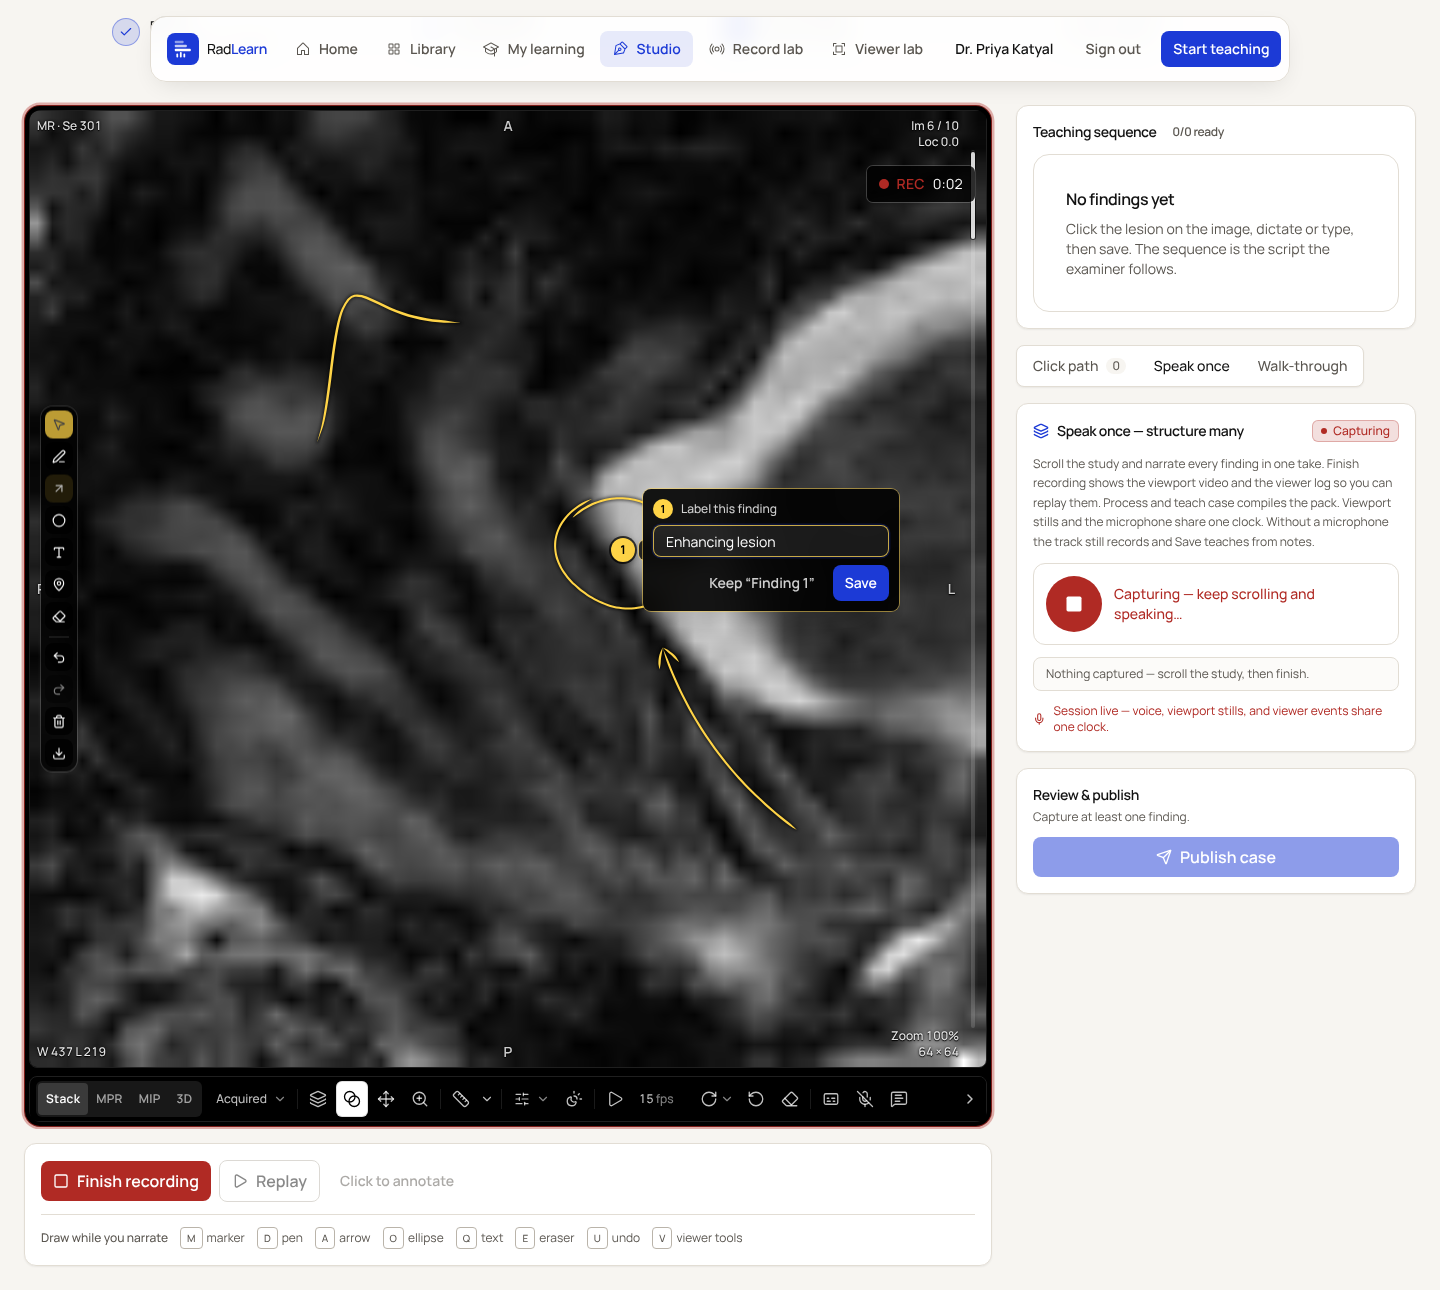
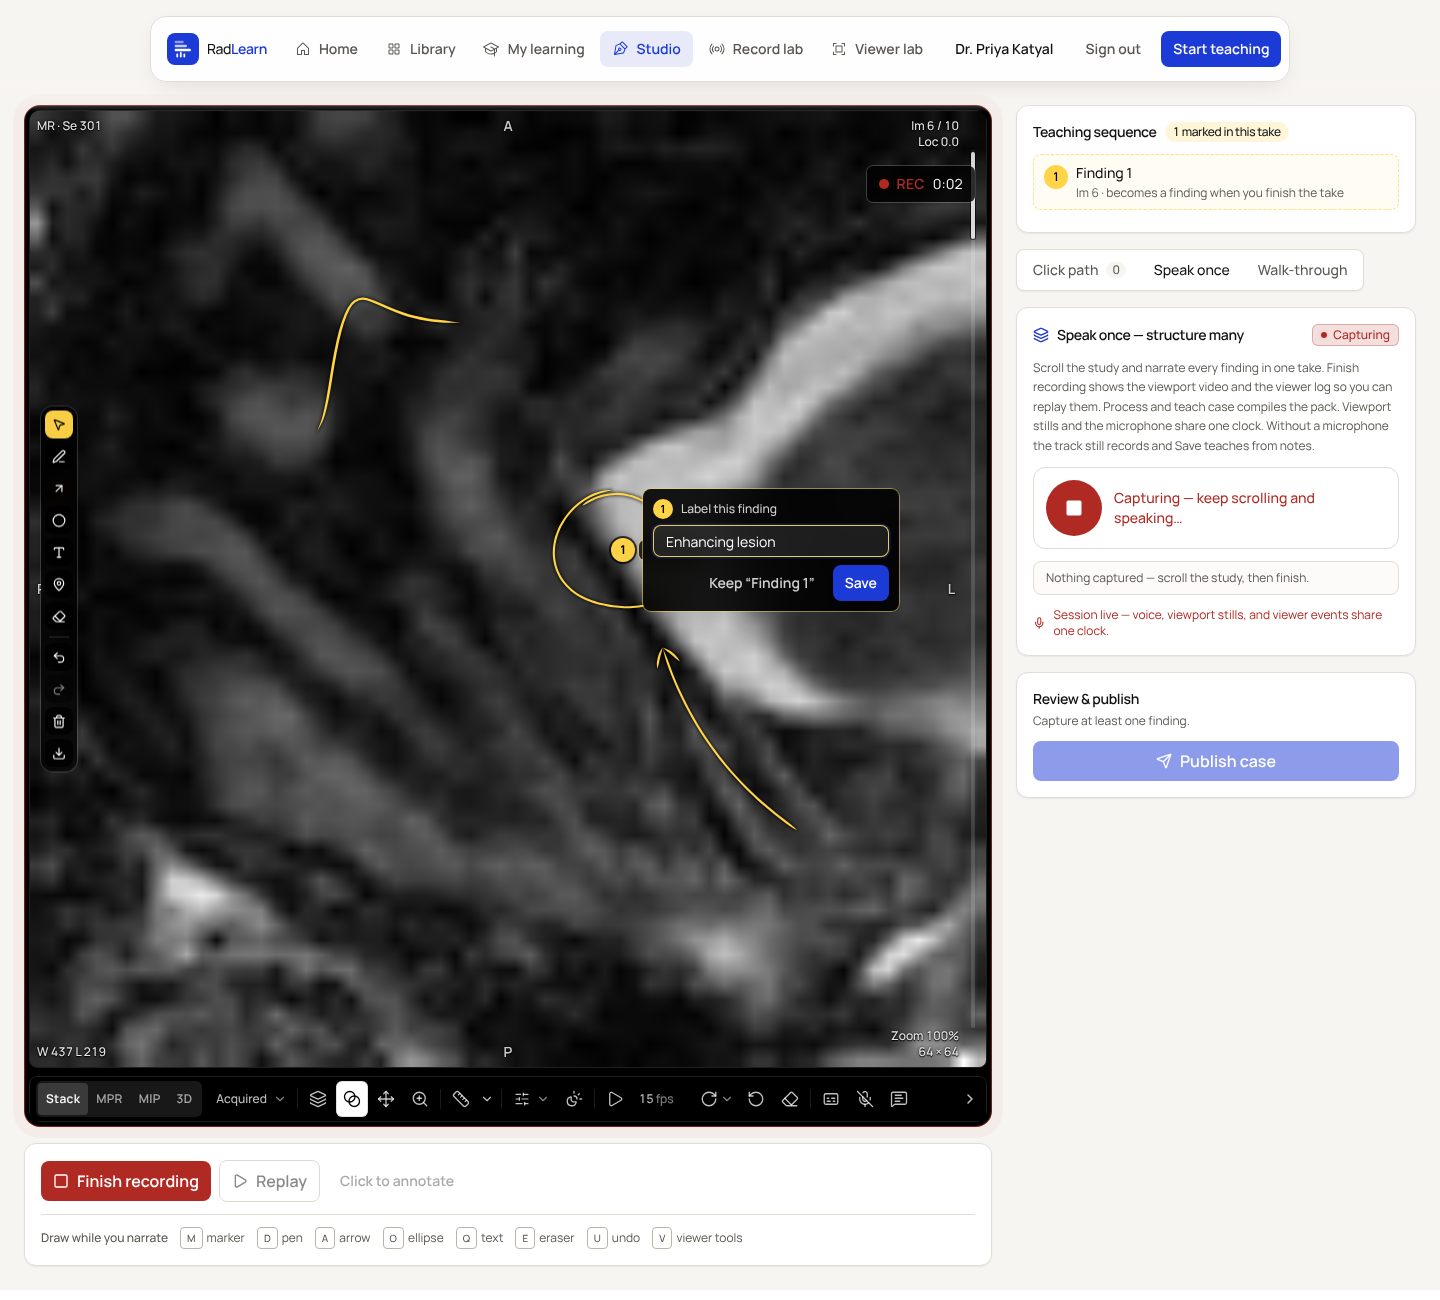
Studio review fixes: pending markers, nav scrim, CT screenshots. [skip ci]
- Teaching sequence lists numbered markers from the live take as pending
  ("1 · Left apical nodule · Im 7 · becomes a finding when you finish the
  take"), so it no longer reads "0/0 ready · No findings yet" under marker 1.
  A marker stops being pending once a saved finding sits on its slice and
  point (pendingSketchMarkers, unit-tested).
- The floating nav gets a page-coloured scrim, so scrolled content (the
  stepper's completed-step check) no longer peeks out above and left of it.
- New e2e on a real de-identified CT: LIDC-IDRI chest CT from the local
  archive, a fresh draft case, ellipse + arrow + marker on the readers'
  left apical nodule at Im 7 on lung windows. The take is not finished, so
  nothing is saved. Skipped when the archive is not running.
- Screenshots regenerated, including three from the CT.

Claude-Session: https://claude.ai/code/session_01RieAufcSAuUBWG5gk2qR6z

diff --git a/e2e/studio-sketch.spec.ts b/e2e/studio-sketch.spec.ts
@@ -111,6 +111,9 @@ test("teacher sketches while recording; ink stays on its pixels through zoom, sc
   await expect(marker).toHaveAttribute("data-number", "1");
   await expect(marker).toHaveAttribute("data-label", "Enhancing lesion");
   await expect(page.getByTestId("teacher-stroke")).toHaveCount(3);
+  // Review fix: the Teaching sequence lists the marker, not "No findings yet".
+  await expect(page.getByTestId("sequence-pending")).toContainText("Enhancing lesion");
+  await expect(page.getByText("No findings yet")).toHaveCount(0);
 
   // Q: a text note anchored on the image.
   await page.keyboard.press("q");
@@ -243,4 +246,134 @@ test("replay draws the teacher's ink back in time with the take", async ({ page 
   await shot(page, "studio-sketch-replay");
   await expect(page.getByTestId("teacher-marker")).toHaveCount(1, { timeout: 5000 });
   await expect(page.getByTestId("teacher-stroke").first()).toHaveAttribute("data-done", "true");
+});
+
+// ---------------------------------------------------------------------------
+// The same Studio on a real, de-identified CT: LIDC-IDRI chest CT (TCIA,
+// CC BY 3.0) served by scripts/serve_local_ct.py. The left apical nodule the
+// LIDC readers segmented is on stack index 6 at (0.680, 0.494). Skipped when
+// that archive is not running. A fresh draft case is created on the series so
+// the published demo case is never touched, and the take is not finished, so
+// nothing is saved.
+// ---------------------------------------------------------------------------
+
+const LIDC_STUDY = "1.3.6.1.4.1.14519.5.2.1.6279.6001.210460865401632134346677582159";
+const LIDC_SERIES = "1.3.6.1.4.1.14519.5.2.1.6279.6001.314917368146772872954571551463";
+const NODULE = { slice: 6, x: 0.68, y: 0.494 };
+
+/** Screen point for an image fraction on the fitted, square 512² CT. */
+async function imagePoint(page: Page, x: number, y: number) {
+  const box = await stageBox(page);
+  const side = Math.min(box.width, box.height);
+  const left = box.x + (box.width - side) / 2;
+  const top = box.y + (box.height - side) / 2;
+  return { x: left + side * x, y: top + side * y };
+}
+
+test("Studio on a de-identified CT: the marker is listed in the Teaching sequence and the nav has no stray badge", async ({ page }) => {
+  const archive = await page.request.get("http://127.0.0.1:8042/studies/study-lidc").catch(() => null);
+  test.skip(!archive?.ok(), "LIDC archive (scripts/serve_local_ct.py) is not running");
+
+  await page.setViewportSize({ width: 1440, height: 1300 });
+  await page.addInitScript(() => window.localStorage.setItem("radlearn-cookie-ack", "1"));
+  expect((await page.request.post("/api/auth/demo", { data: { role: "author" } })).ok()).toBeTruthy();
+  const made = await page.request.post("/api/admin/cases", {
+    data: {
+      title: "Studio CT e2e — LIDC chest CT",
+      modality: "CT",
+      patientId: "pat_lidc_nodule",
+      studies: [{ studyInstanceUID: LIDC_STUDY, modality: "CT", caseSeriesInstanceUIDs: [LIDC_SERIES], seriesInstanceUIDs: [LIDC_SERIES] }],
+    },
+  });
+  expect(made.ok()).toBeTruthy();
+  const caseId = ((await made.json()) as { case: { caseId: string } }).case.caseId;
+
+  await page.goto(`/studio/cases/${caseId}/record`);
+  await expect(page.getByTestId("sketch-palette")).toBeVisible({ timeout: 120_000 });
+  const startButton = page.getByRole("button", { name: "Start recording" }).first();
+  await expect(startButton).toBeEnabled({ timeout: 120_000 });
+  await expect(page.getByText("No findings yet")).toBeVisible();
+
+  // Seat the nodule slice from the stack scrollbar (Im 7 of 65), on lung windows.
+  await showStage(page);
+  const slider = page.getByRole("slider", { name: "Slice" });
+  await expect(slider).toHaveAttribute("aria-valuemax", "65", { timeout: 60_000 });
+  const track = (await slider.boundingBox())!;
+  await page.mouse.click(track.x + track.width / 2, track.y + track.height * ((NODULE.slice + 0.5) / 65));
+  // The thumb's grab height can land the click a slice off; step to it.
+  const want = NODULE.slice + 1;
+  const centre = await imagePoint(page, 0.5, 0.5);
+  for (let i = 0; i < 12; i++) {
+    const now = Number(await slider.getAttribute("aria-valuenow"));
+    if (now === want) break;
+    await page.mouse.move(centre.x, centre.y);
+    await page.mouse.wheel(0, now > want ? -100 : 100);
+    await page.waitForTimeout(250);
+  }
+  await expect(slider).toHaveAttribute("aria-valuenow", String(want));
+  // Lung window from the preset menu, by name (preset order varies by modality).
+  await page.getByRole("button", { name: /^Window presets/ }).click();
+  await page
+    .getByRole("menuitemradio", { name: /^Lung/ })
+    .or(page.getByRole("menuitem", { name: /^Lung/ }))
+    .first()
+    .click();
+  await expect(page.getByRole("button", { name: "Window presets, Lung" })).toBeVisible();
+
+  await startButton.click();
+  await expect(page.getByRole("button", { name: "Finish recording" })).toBeVisible();
+
+  // Ring the nodule, point at it, then M drops marker #1 on it.
+  await page.keyboard.press("o");
+  const a = await imagePoint(page, NODULE.x - 0.035, NODULE.y - 0.035);
+  const b = await imagePoint(page, NODULE.x + 0.035, NODULE.y + 0.035);
+  await page.mouse.move(a.x, a.y);
+  await page.mouse.down();
+  await page.mouse.move(b.x, b.y, { steps: 8 });
+  await page.mouse.up();
+  await page.keyboard.press("a");
+  const tail = await imagePoint(page, NODULE.x + 0.16, NODULE.y + 0.13);
+  const tip = await imagePoint(page, NODULE.x + 0.045, NODULE.y + 0.04);
+  await page.mouse.move(tail.x, tail.y);
+  await page.mouse.down();
+  await page.mouse.move(tip.x, tip.y, { steps: 6 });
+  await page.mouse.up();
+  await page.keyboard.press("v");
+  const at = await imagePoint(page, NODULE.x, NODULE.y);
+  await page.mouse.move(at.x, at.y);
+  await page.keyboard.press("m");
+  const popover = page.getByTestId("marker-label-popover");
+  await expect(popover).toBeVisible();
+  await popover.getByRole("textbox").fill("Left apical nodule");
+
+  // The Teaching sequence lists the marker as soon as it is dropped.
+  const pending = page.getByTestId("sequence-pending");
+  await expect(pending).toContainText("Finding 1");
+  await expect(page.getByText("No findings yet")).toHaveCount(0);
+  await shot(page, "studio-ct-marker-label");
+  await popover.getByRole("textbox").press("Enter");
+  await expect(page.getByTestId("teacher-marker")).toHaveAttribute("data-label", "Left apical nodule");
+  await expect(pending).toContainText("Left apical nodule");
+  await expect(pending).toContainText(`Im ${NODULE.slice + 1}`);
+  await expect(page.getByTestId("sequence-pending-count")).toHaveText("1 marked in this take");
+  await expect(page.getByText("0/0 ready")).toHaveCount(0);
+
+  // The marker is anchored on the nodule's slice and point.
+  const items = await page.evaluate((key) => JSON.parse(sessionStorage.getItem(key) ?? "[]"), `flowrad:studio-sketch:${caseId}`);
+  const mark = (items as Array<{ kind: string; image: { sliceIndex: number }; points: Array<{ x_pct: number; y_pct: number }> }>).find(
+    (item) => item.kind === "marker"
+  );
+  expect(mark?.image.sliceIndex).toBe(NODULE.slice);
+  expect(Math.abs((mark?.points[0]?.x_pct ?? 0) - NODULE.x)).toBeLessThan(0.02);
+  expect(Math.abs((mark?.points[0]?.y_pct ?? 0) - NODULE.y)).toBeLessThan(0.02);
+  await shot(page, "studio-ct-recording");
+
+  // Scrolled under the floating nav: the stepper must not peek out around it.
+  await expect(page.getByTestId("nav-scrim")).toBeAttached();
+  const scrim = await page.evaluate(() => {
+    const el = document.querySelector('[data-testid="nav-scrim"]') as HTMLElement | null;
+    return el ? getComputedStyle(el).backgroundImage : "";
+  });
+  expect(scrim).toContain("gradient");
+  if (shots) await page.screenshot({ path: `${shots}/studio-ct-nav.png`, clip: { x: 0, y: 0, width: 1440, height: 140 } });
 });

diff --git a/components/author/SequenceBoard.tsx b/components/author/SequenceBoard.tsx
@@ -22,6 +22,7 @@ import {
 } from "@/components/ui";
 import { cn } from "@/components/ui/cn";
 import { displaySliceNumber } from "@/lib/findingDisplayState";
+import type { PendingSketchMarker } from "@/lib/teacherSketch";
 import type { Finding } from "@/lib/types";
 import {
   casePublishReadiness,
@@ -44,8 +45,14 @@ export function SequenceBoard({
   onPinCompare,
   onClearCompare,
   pinningId,
+  pending = [],
 }: {
   findings: Finding[];
+  /**
+   * Numbered markers dropped in the live take that are not findings yet.
+   * Listed so the board never reads "No findings yet" under a marker.
+   */
+  pending?: readonly PendingSketchMarker[];
   activeId?: string | null;
   busy?: boolean;
   onSelect: (finding: Finding) => void;
@@ -65,18 +72,57 @@ export function SequenceBoard({
       <div className="mb-3 flex items-center justify-between gap-2">
         <h2 className="flex items-center gap-2 text-sm font-semibold text-primary">
           Teaching sequence
-          <span className="rounded-full bg-elevated px-2 py-0.5 text-xs tabular-nums text-muted">
-            {readiness.total} findings
-          </span>
+          {/* A "0 findings" chip beside a marker reads as nothing captured.
+              Show the count once a finding is saved. */}
+          {(readiness.total > 0 || pending.length === 0) && (
+            <span className="rounded-full bg-elevated px-2 py-0.5 text-xs tabular-nums text-muted">
+              {readiness.total} findings
+            </span>
+          )}
+          {pending.length > 0 && (
+            <span
+              className="rounded-full bg-ink/20 px-2 py-0.5 text-xs font-medium tabular-nums text-primary"
+              data-testid="sequence-pending-count"
+            >
+              {pending.length} marked in this take
+            </span>
+          )}
         </h2>
       </div>
 
-      {findings.length === 0 ? (
+      {pending.length > 0 && (
+        <ol className="mb-1.5 flex flex-col gap-1.5" aria-label="Markers in this take" data-testid="sequence-pending">
+          {pending.map((p) => (
+            <li
+              key={p.id}
+              className="flex items-start gap-2 rounded-lg border border-dashed border-ink/70 bg-ink/[0.06] px-2.5 py-2"
+            >
+              <span
+                className="mt-0.5 flex h-6 w-6 shrink-0 items-center justify-center rounded-full bg-ink text-xs font-semibold tabular-nums text-black"
+                aria-hidden="true"
+              >
+                {p.number}
+              </span>
+              <span className="min-w-0 flex-1">
+                <span className="block truncate text-sm font-medium text-primary">
+                  <span className="sr-only">Marker {p.number}: </span>
+                  {p.label}
+                </span>
+                <span className="mt-0.5 block text-xs text-muted">
+                  Im {displaySliceNumber(p.sliceIndex)} · becomes a finding when you finish the take
+                </span>
+              </span>
+            </li>
+          ))}
+        </ol>
+      )}
+
+      {findings.length === 0 && pending.length === 0 ? (
         <EmptyState
           title="No findings yet"
           description="Click the lesion on the image, dictate or type, then save. The sequence is the script the examiner follows."
         />
-      ) : (
+      ) : findings.length === 0 ? null : (
         <ol className="flex flex-col gap-1.5">
           {findings.map((f, i) => {
             const gaps = findingGaps(f);

diff --git a/lib/teacherSketch.ts b/lib/teacherSketch.ts
@@ -209,6 +209,51 @@ export function defaultMarkerLabel(number: number): string {
   return `Finding ${number}`;
 }
 
+/** A numbered marker in the live take that is not a saved finding yet. */
+export interface PendingSketchMarker {
+  id: string;
+  number: number;
+  label: string;
+  /** 0-based stack index the marker sits on. */
+  sliceIndex: number;
+}
+
+/**
+ * Markers the teacher dropped that no saved finding carries yet. A marker
+ * becomes a finding when the take is finished and processed (the compile
+ * lands the finding on the marker's slice and point), so a finding on the
+ * same slice within half a percent of the image is the same mark. The
+ * Teaching sequence lists the rest as pending so it never reads "No findings
+ * yet" while a numbered marker is on the image.
+ */
+export function pendingSketchMarkers(
+  items: readonly TeacherSketchItem[],
+  findings: readonly { sliceIndex?: number; marker?: { x_pct: number; y_pct: number } | null }[]
+): PendingSketchMarker[] {
+  const out: PendingSketchMarker[] = [];
+  for (const item of items) {
+    if (item.kind !== "marker") continue;
+    const at = item.points[0];
+    if (!at) continue;
+    const saved = findings.some(
+      (f) =>
+        f.marker &&
+        f.sliceIndex === item.image.sliceIndex &&
+        Math.abs(f.marker.x_pct - at.x_pct) <= 0.005 &&
+        Math.abs(f.marker.y_pct - at.y_pct) <= 0.005
+    );
+    if (saved) continue;
+    const number = item.number ?? out.length + 1;
+    out.push({
+      id: item.id,
+      number,
+      label: item.text?.trim() || defaultMarkerLabel(number),
+      sliceIndex: item.image.sliceIndex,
+    });
+  }
+  return out.sort((a, b) => a.number - b.number);
+}
+
 // ---------------------------------------------------------------------------
 // Timeline (progressive replay)
 // ---------------------------------------------------------------------------

diff --git a/lib/teacherSketch.test.ts b/lib/teacherSketch.test.ts
@@ -35,6 +35,7 @@ import {
   teacherMarkerInWindow,
   undoSketch,
   withSketchAnnotations,
+  pendingSketchMarkers,
 } from "./teacherSketch.ts";
 import { resolveStudioHotkey, STUDENT_SESSION_KEYS, STUDIO_MARKER_KEY, STUDIO_TOOL_KEYS } from "./studioHotkeys.ts";
 import { resolveViewerHotkey } from "./viewerHotkeys.ts";
@@ -420,4 +421,23 @@ test("Studio sketch keys never reuse a student-session key, and Alt+X stays with
   // preset menu's fourth entry), as on the desktop. Pan stays on the toolbar.
   assert.equal(resolveStudioHotkey({ key: "4" }), null);
   assert.deepEqual(resolveViewerHotkey({ key: "4" }), { type: "preset", ordinal: 4 });
+});
+
+test("a marker in the live take is listed as pending until a saved finding carries it", () => {
+  const items = [marker("m2", 2, 0.3, 0.4, 8), marker("m1", 1), { ...marker("m3", 3), kind: "pen" as const }];
+  items[1] = { ...items[1]!, text: "Enhancing lesion" };
+  // Nothing saved yet: both markers are pending, numbered in order, pens ignored.
+  const pending = pendingSketchMarkers(items, []);
+  assert.deepEqual(
+    pending.map((p) => [p.number, p.label, p.sliceIndex]),
+    [
+      [1, "Enhancing lesion", 6],
+      [2, "Finding 2", 8],
+    ]
+  );
+  // The compile lands finding 1 on marker 1's slice and point: no longer pending.
+  const landed = pendingSketchMarkers(items, [{ sliceIndex: 6, marker: { x_pct: 0.62, y_pct: 0.37 } }]);
+  assert.deepEqual(landed.map((p) => p.id), ["m2"]);
+  // Same point on another slice is a different mark.
+  assert.equal(pendingSketchMarkers(items, [{ sliceIndex: 5, marker: { x_pct: 0.62, y_pct: 0.37 } }]).length, 2);
 });

diff --git a/components/AppShell.tsx b/components/AppShell.tsx
@@ -283,7 +283,20 @@ export function AppShell({
       <div className={cn("flex min-h-dvh flex-col bg-canvas", (readingRoom || freeViewer) && "bg-imaging")}>
         {!hideChrome && (
           <header className="pointer-events-none fixed inset-x-0 top-4 z-40 px-4">
-            <div className="pointer-events-auto mx-auto flex w-fit max-w-full items-center gap-2 rounded-2xl border border-subtle bg-surface/90 p-2 shadow-md backdrop-blur-md">
+            {/* Scrolled content fades out before it reaches the floating nav,
+                so nothing (a stepper check, a heading's first letter) peeks
+                out in the gap around the pill. Pointer-transparent. */}
+            <div
+              aria-hidden="true"
+              data-testid="nav-scrim"
+              className={cn(
+                "absolute inset-x-0 -top-4 h-28 bg-gradient-to-b via-70%",
+                readingRoom || freeViewer
+                  ? "from-imaging via-imaging to-transparent"
+                  : "from-canvas via-canvas to-transparent"
+              )}
+            />
+            <div className="pointer-events-auto relative mx-auto flex w-fit max-w-full items-center gap-2 rounded-2xl border border-subtle bg-surface/90 p-2 shadow-md backdrop-blur-md">
               <Link
                 href="/"
                 className="group flex items-center gap-2 rounded-lg px-2 py-2 focus-visible:outline-none focus-visible:ring-2 focus-visible:ring-accent"

diff --git a/components/author/RecordingStudio.tsx b/components/author/RecordingStudio.tsx
@@ -74,6 +74,7 @@ import {
   type SketchExportFormat,
 } from "@/components/author/sketch/SketchToolPalette";
 import { useTeacherSketch } from "@/components/author/sketch/useTeacherSketch";
+import { pendingSketchMarkers } from "@/lib/teacherSketch";
 import { resolveStudioHotkey } from "@/lib/studioHotkeys";
 import { isTextTarget } from "@/lib/viewerHotkeys";
 import { useRecordReplay } from "@/components/record/useRecordReplay";
@@ -258,6 +259,8 @@ export function RecordingStudio({
   // A take starts from what is already drawn: snapshot it as the take's first
   // sketch op so replay and the compile see the same ink the teacher saw.
   const { snapshot: sketchSnapshot, endReplay: endSketchReplay, items: sketchItems } = sketch;
+  // Markers on the image that no saved finding carries yet (lib/teacherSketch).
+  const pendingMarkers = useMemo(() => pendingSketchMarkers(sketchItems, findings), [sketchItems, findings]);
   const sketchItemsRef = useRef(sketchItems);
   sketchItemsRef.current = sketchItems;
   useEffect(() => {
@@ -1314,6 +1317,7 @@ export function RecordingStudio({
         <div className="flex min-w-0 flex-col gap-4">
           <SequenceBoard
             findings={findings}
+            pending={pendingMarkers}
             activeId={focusedFindingId}
             busy={rr.phase !== "idle"}
             onSelect={(f) => void focusFinding(f)}
